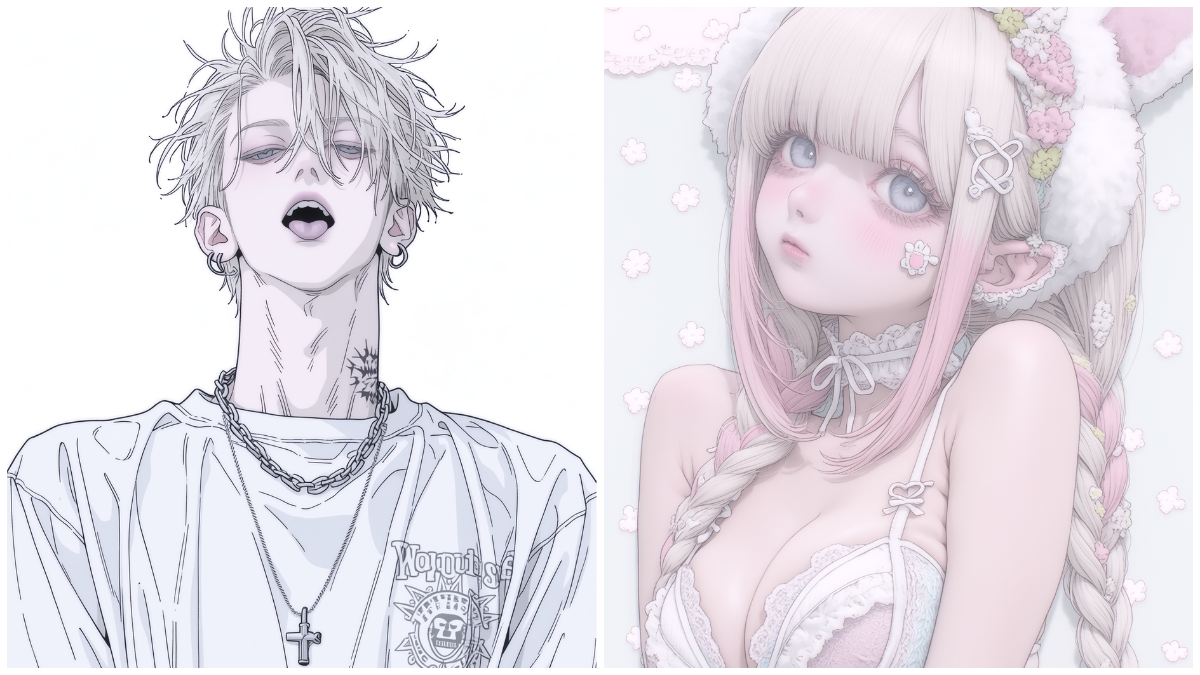
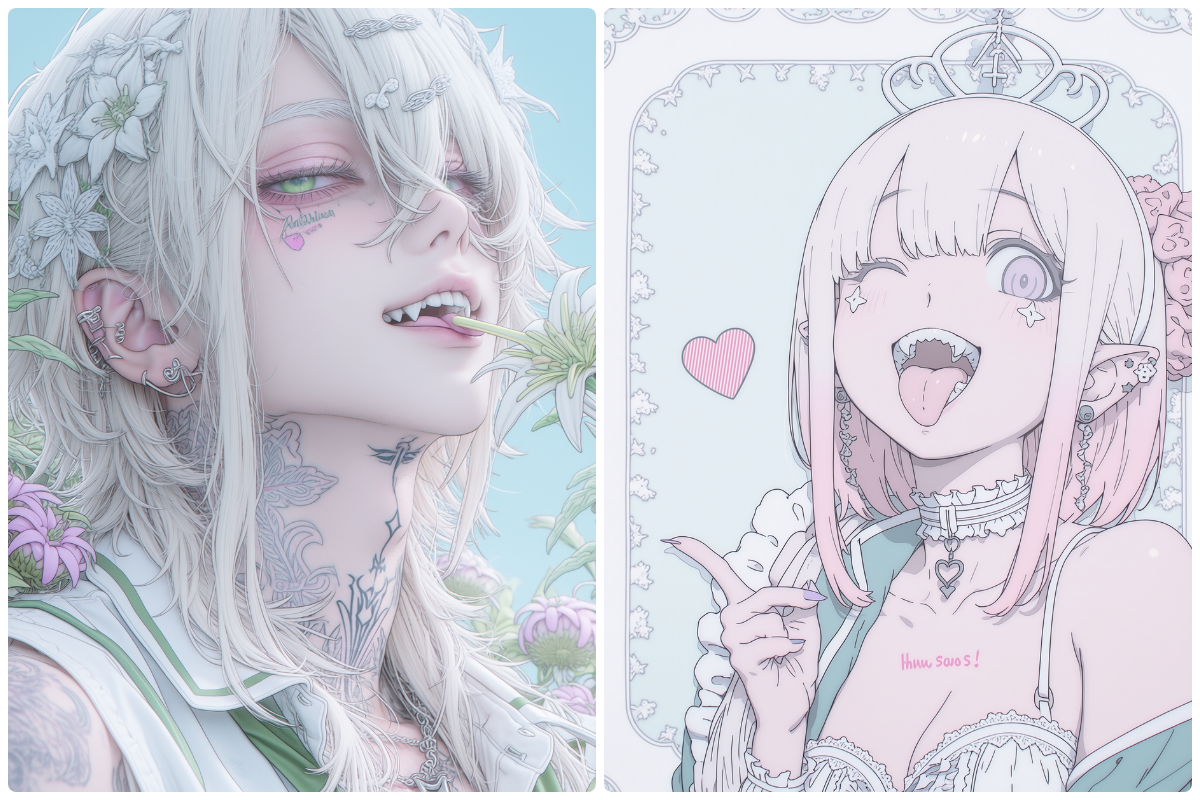
更新

diff --git a/js/profile-defaults.js b/js/profile-defaults.js
@@ -182,5 +182,6 @@ const DEFAULT_PROFILE_ALIASES = {
     "broes8i": "moodboard broes8i",
     "dh3tl96": "moodboard dh3tl96",
     "ggzdqln": "moodboard ggzdqln",
-    "w23bn6e": "moodboard w23bn6e"
+    "w23bn6e": "moodboard w23bn6e",
+    "cxbyud6": "moodboard cxbyud6"
 };
